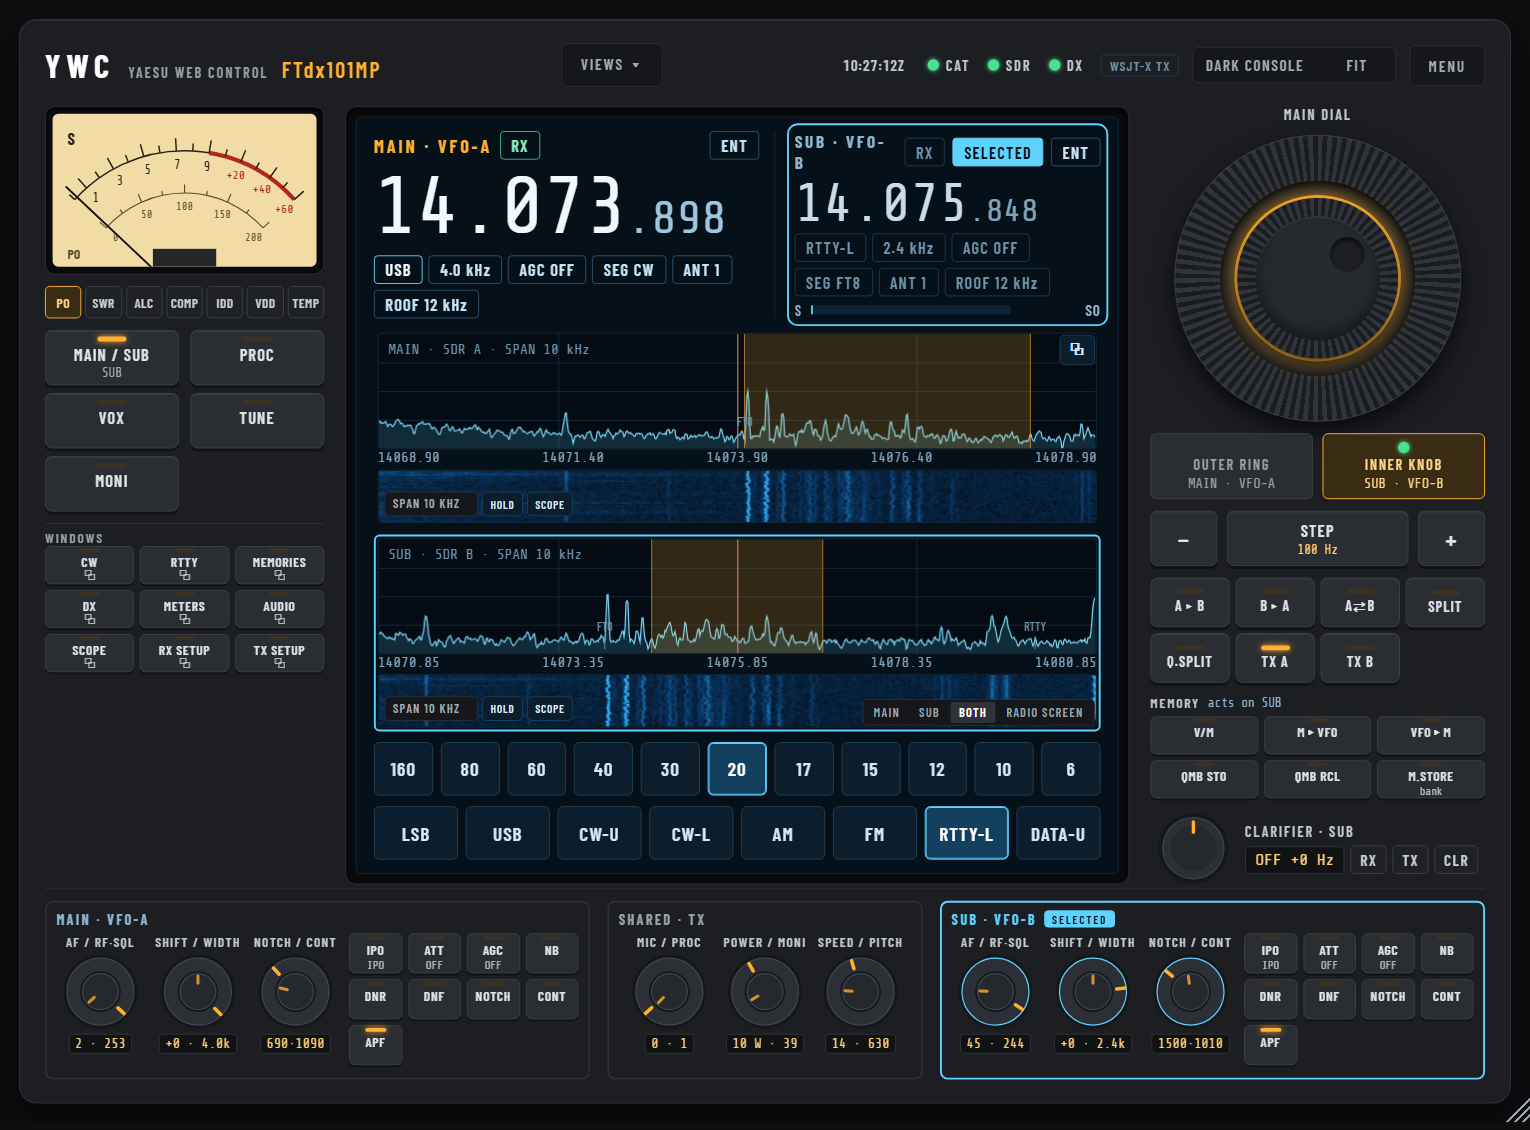
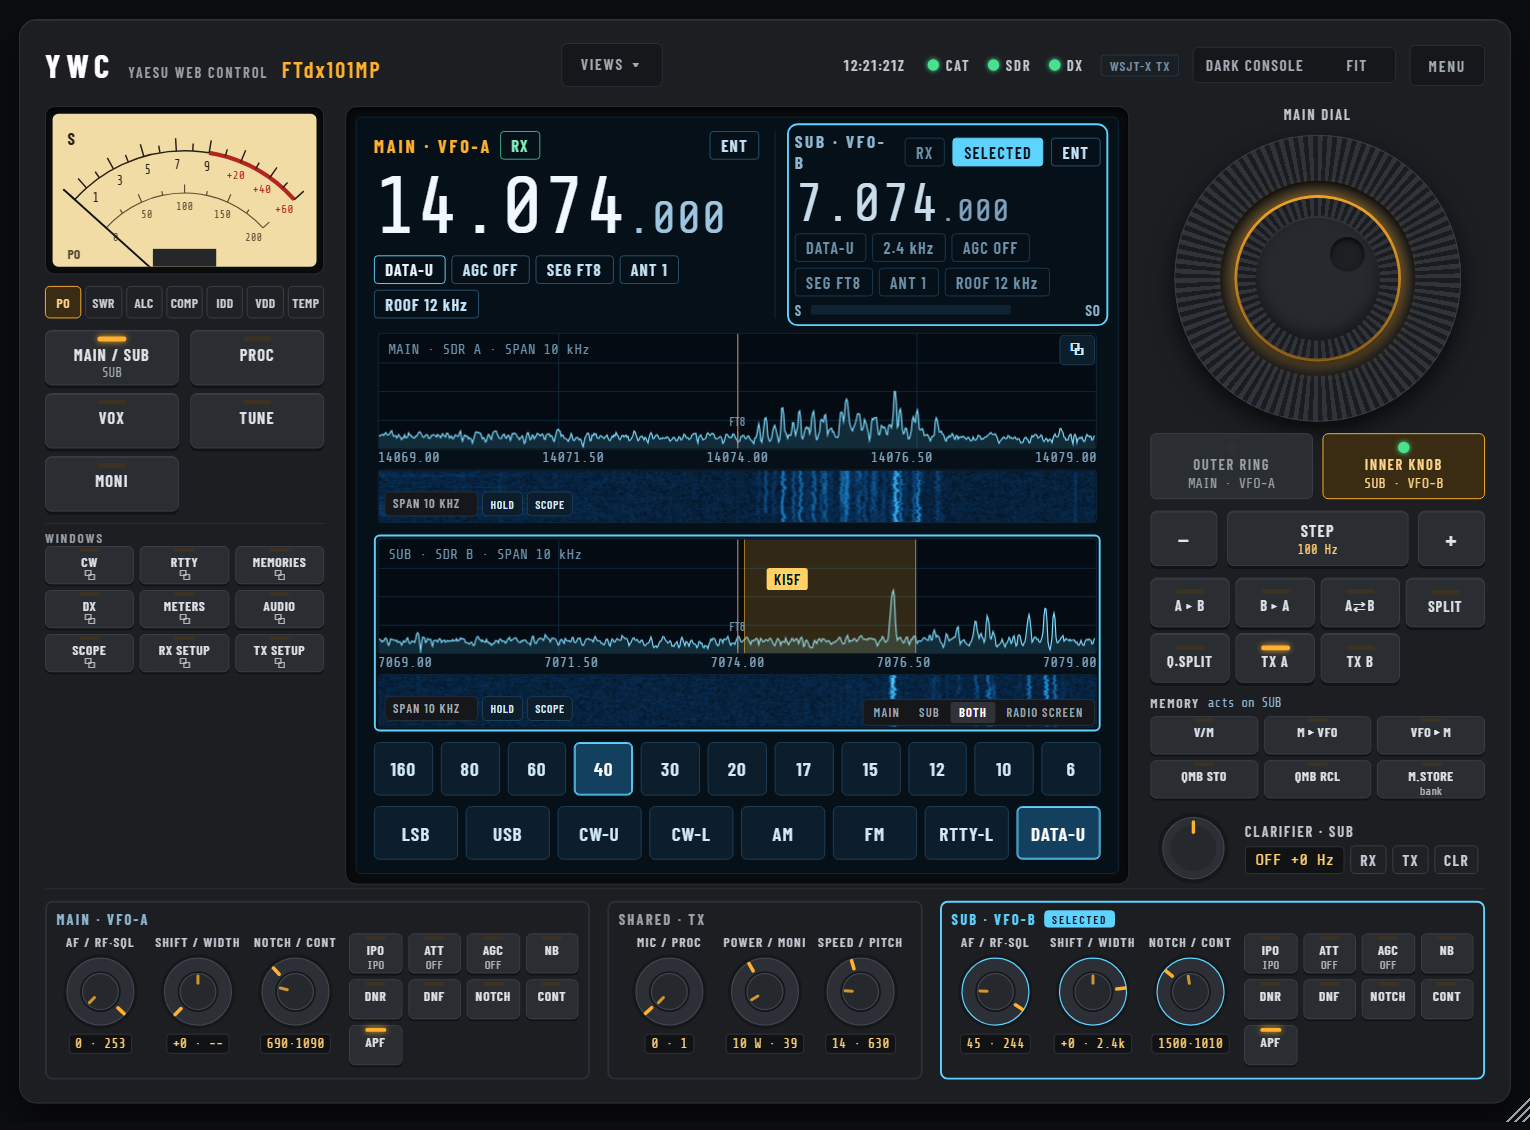
YWC: Radio panel and TFT pictures with Main on 20 m and Sub on 40 m

diff --git a/index.html b/index.html
@@ -322,7 +322,7 @@
                 <div class="views">
                     <div class="view-tabs">
                         <button aria-pressed="true" data-src="pictures/Radio_Both_SDRs.png"
-                            data-alt="YWC Radio panel on an FTdx101MP, with an SDR spectrum and waterfall for the Main and Sub receivers one above the other">Radio panel</button>
+                            data-alt="YWC Radio panel on an FTdx101MP, with an SDR spectrum and waterfall for Main on 20 m FT8 and Sub on 40 m FT8 one above the other">Radio panel</button>
                         <button aria-pressed="false" data-src="pictures/Radio_Night_Console.png"
                             data-alt="YWC Radio panel in the Night (red) theme, showing the radio's own TFT screen with Main on 20 m FT8 and Sub on 40 m FT8">Radio panel · Night</button>
                         <button aria-pressed="false" data-src="pictures/Radio_Silver_Classic.png"
@@ -334,7 +334,7 @@
                     </div>
                     <a class="shot" href="pictures/Radio_Both_SDRs.png">
                         <img src="pictures/Radio_Both_SDRs.png"
-                            alt="YWC Radio panel on an FTdx101MP, with an SDR spectrum and waterfall for the Main and Sub receivers one above the other">
+                            alt="YWC Radio panel on an FTdx101MP, with an SDR spectrum and waterfall for Main on 20 m FT8 and Sub on 40 m FT8 one above the other">
                     </a>
                 </div>
 
